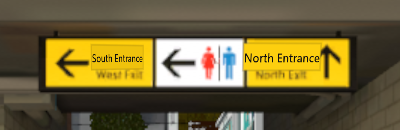
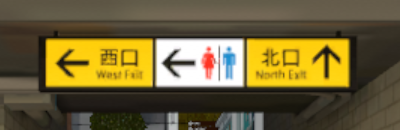
VR1113 translate2: runs parted by letter-middle gaps, unsure letters trimmed at ends, one CJK letter is a word, answers shown between looks, debug text log, station fixtures

diff --git a/crates/orbiters-translate/src/core.rs b/crates/orbiters-translate/src/core.rs
@@ -126,6 +126,10 @@ pub struct Core {
     first_shown: bool,
     /// Lines for translate.log: what batches cost, and how long the first translation took. Taken by the caller.
     pub log: Vec<String>,
+    /// Also what was read and translated (development builds only: the text seen in VR is the person's).
+    pub log_text: bool,
+    /// Answers taken from the translator so far.
+    answered: u64,
 }
 
 impl Core {
@@ -146,6 +150,8 @@ impl Core {
             first_seen: None,
             first_shown: false,
             log: Vec::new(),
+            log_text: false,
+            answered: 0,
         }
     }
 
@@ -173,6 +179,9 @@ impl Core {
         let engine = self.engine.as_mut().ok_or_else(|| anyhow::anyhow!("the text reader is not loaded"))?; // i18n: not shown (log detail)
         let (lines, timings) = engine.read(look)?;
         let t = std::time::Instant::now();
+        if self.log_text {
+            self.log.push(format!("read: {:?}", lines.iter().map(|l| (l.text.as_str(), (l.confidence * 100.0).round())).collect::<Vec<_>>())); // i18n: not shown (a log's line)
+        }
         let lines: Vec<_> = lines.into_iter().filter(|l| language::needs_translating(&l.text, &self.reader.target, &self.reader.reads)).collect();
         let sightings = pipeline::sightings(look, &lines);
         self.tracker.update(now, sightings, &|track: &Track| pipeline::seen(look, track));
@@ -240,6 +249,14 @@ impl Core {
         Scene { quads, activity, timings, lines: self.tracker.tracks.len(), waiting_s: self.asked_at.map(|t| t.elapsed().as_secs_f32()) }
     }
 
+    /// Between looks: when the translator answered since, the quads to show now (a translation shows when it arrives,
+    /// not at the next look, which can be seconds away while the game is short of processor time).
+    pub fn poll(&mut self, now: f64, gaze: (V3, V3)) -> Option<Scene> {
+        let before = self.answered;
+        self.collect(now);
+        (self.answered != before).then(|| self.after_look(now, gaze, Timings::default()))
+    }
+
     fn collect(&mut self, now: f64) {
         while let Ok(message) = self.translator.answers.try_recv() {
             let (request, answer, took) = match message {
@@ -250,6 +267,7 @@ impl Core {
                 }
                 FromTranslator::Answer(r, a, took) => (r, a, took),
             };
+            self.answered += 1;
             self.asked_at = None;
             self.log.push(format!(
                 "batch of {} lines: {} in {:.0} ms ({:.0} ms queued behind the translator)", // i18n: not shown (a log's line)
@@ -264,6 +282,9 @@ impl Core {
             match answer {
                 Ok(translations) => {
                     self.last_failure = None;
+                    if self.log_text {
+                        self.log.push(format!("into {}: {:?}", request.target, request.keys.iter().zip(&translations).collect::<Vec<_>>())); // i18n: not shown (a log's line)
+                    }
                     for (k, t) in request.keys.iter().zip(translations) {
                         self.cache.put(&request.target, k, t);
                     }

diff --git a/crates/orbiters-translate/src/runs.rs b/crates/orbiters-translate/src/runs.rs
@@ -9,8 +9,8 @@ use crate::ocr::{Line, TextBox};
 
 /// A letter counts as text from this sureness.
 const SURE_LETTER: f32 = 0.5;
-/// A gap wider than this many letter heights parts two runs.
-const GAP: f32 = 0.9;
+/// Letters' middles further apart than this many letter heights part two runs (a Latin word space is about one, a Korean one two; a pictogram between two labels several).
+const GAP: f32 = 3.0;
 /// A run's box: its letters' height times this, and this much of a letter height before and after them.
 pub const RUN_HEIGHT: f32 = 1.5;
 const RUN_PAD: f32 = 0.3;
@@ -62,16 +62,20 @@ pub fn split(line: &Line) -> Vec<Line> {
     }
     let (length, thickness) = (line.boxed.length().max(1.0), line.boxed.thickness().max(1.0));
     let h = letter_height(&line.boxed);
+    // CTC places a letter as a narrow peak, not over its width: gaps are measured between letters' middles. Letters of
+    // one word or one CJK label are about a letter height apart or less; a pictogram or a panel's edge is several.
     let gap = GAP * h / length;
+    let middle = |i: usize| (line.glyphs[i].1[0] + line.glyphs[i].1[1]) / 2.0;
     // Runs of glyph indices.
     let mut runs: Vec<Vec<usize>> = Vec::new();
     let mut current: Vec<usize> = Vec::new();
     let mut last_letter: Option<usize> = None;
-    for (i, (text, span, p)) in line.glyphs.iter().enumerate() {
-        let letter = letters_in(text) && *p >= SURE_LETTER;
-        if letter {
+    for (i, (text, _, _)) in line.glyphs.iter().enumerate() {
+        // Any letter, sure or not: a misread letter inside a word ("West Fxit") does not part it. Unsure letters are only
+        // left out at a run's ends (below).
+        if letters_in(text) {
             if let Some(j) = last_letter {
-                if span[0] - line.glyphs[j].1[1] > gap {
+                if middle(i) - middle(j) > gap {
                     runs.push(std::mem::take(&mut current));
                 }
             }
@@ -90,9 +94,10 @@ pub fn split(line: &Line) -> Vec<Line> {
     let pad = RUN_PAD * h / length;
     runs.into_iter()
         .filter_map(|run| {
-            // Marks at its end are not part of it.
-            let first = *run.iter().find(|&&i| letters_in(&line.glyphs[i].0))?;
-            let last = *run.iter().rev().find(|&&i| letters_in(&line.glyphs[i].0))?;
+            // Marks, and letters read without sureness (a pictogram's edge read as one), at its ends are not part of it.
+            let kept = |i: &&usize| letters_in(&line.glyphs[**i].0) && line.glyphs[**i].2 >= SURE_LETTER;
+            let first = *run.iter().find(kept)?;
+            let last = *run.iter().rev().find(kept)?;
             let text: String = line.glyphs[first..=last].iter().map(|g| g.0.as_str()).collect::<String>().trim().to_string();
             let sure: Vec<f32> = line.glyphs[first..=last].iter().filter(|g| letters_in(&g.0)).map(|g| g.2).collect();
             let (a0, a1) = ((line.glyphs[first].1[0] - pad).max(0.0), (line.glyphs[last].1[1] + pad).min(1.0));

diff --git a/crates/orbiters-desktop/src/overlay/translate.rs b/crates/orbiters-desktop/src/overlay/translate.rs
@@ -542,6 +542,7 @@ fn run(shared: &Mutex<Shared>, stop: &AtomicBool, from: (Option<vr::compositor::
         Ok(t) => (Core::new(Some(engine), t, reader_of(&settings, &target)), None),
         Err(state) => (Core::new(Some(engine), Box::new(Nobody), reader_of(&settings, &target)), Some(state)),
     };
+    core.log_text = cfg!(debug_assertions) && std::env::var_os("ORBITERS_TRANSLATE_LOG_TEXT").is_some();
     let mut in_use = settings.clone();
     let mut translator_checked = Instant::now();
     // The built-in translator's download, on a thread of its own while reading goes on: bytes so far, in all, and
@@ -558,6 +559,7 @@ fn run(shared: &Mutex<Shared>, stop: &AtomicBool, from: (Option<vr::compositor::
     // The eyes' size, known after a first look (Quest Pro through Virtual Desktop: 3168 x 3456); until then, whole.
     let mut whole_size = [u32::MAX / 2; 2];
     let mut game_busy = false;
+    let mut last_gaze = None;
     while !stop.load(Ordering::Relaxed) {
         let (heads, eyes, paused, shown, now_settings) = {
             let s = shared.lock().unwrap_or_else(|e| e.into_inner());
@@ -628,6 +630,15 @@ fn run(shared: &Mutex<Shared>, stop: &AtomicBool, from: (Option<vr::compositor::
                     s.status.state = TranslateState::Paused;
                 }
             }
+            // A translation that arrives meanwhile shows now.
+            if let Some(gaze) = last_gaze {
+                if let Some(scene) = core.poll(started.elapsed().as_secs_f64(), gaze) {
+                    shared.lock().unwrap_or_else(|e| e.into_inner()).scene = Some(scene);
+                }
+                for line in core.log.drain(..) {
+                    note(&line);
+                }
+            }
             std::thread::sleep(Duration::from_millis(40));
             continue;
         }
@@ -670,6 +681,7 @@ fn run(shared: &Mutex<Shared>, stop: &AtomicBool, from: (Option<vr::compositor::
                 [x, y, side, side]
             });
         let look = Look { pair, area, shown: &shown, zoom };
+        last_gaze = Some(gaze);
         let step = core.step(started.elapsed().as_secs_f64(), &look, gaze);
         for line in core.log.drain(..) {
             note(&line);

diff --git a/crates/orbiters-translate/src/language.rs b/crates/orbiters-translate/src/language.rs
@@ -36,8 +36,9 @@ pub fn primary(tag: &str) -> String {
 /// Whether a line read is worth sending to the translator for `target`, the person reading `reads` too (primary tags).
 pub fn needs_translating(text: &str, target: &str, reads: &[String]) -> bool {
     let c = Counts::of(text);
-    // Nothing to read: numbers, a time, symbols, one letter.
-    if c.letters < 2 {
+    // Nothing to read: numbers, a time, symbols, one Latin or Cyrillic letter. One Chinese character or kana or Hangul
+    // syllable is a word ("男", "出口"'s "口" alone on a door).
+    if c.letters < 2 && c.han + c.kana + c.hangul == 0 {
         return false;
     }
     let target = primary(target);
@@ -163,6 +164,7 @@ mod tests {
         assert!(!needs_translating("非常口", "ja", &none));
         assert!(!needs_translating("12:30 !", "en", &none));
         assert!(!needs_translating("x", "en", &none));
+        assert!(needs_translating("男", "en", &none), "one Chinese character is a word");
         // Unsure: the translator decides (and gives it back unchanged when it is already in the target language).
         assert!(needs_translating("Mixer", "fr", &none));
         assert!(!needs_translating("Respawn", "en", &none));
